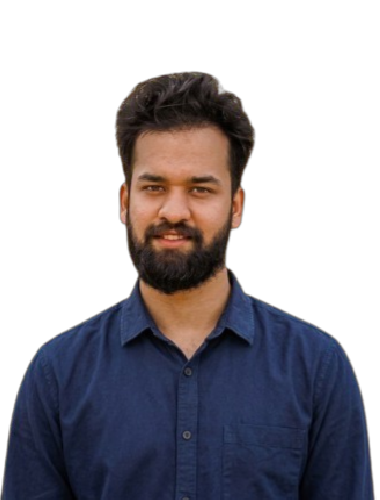
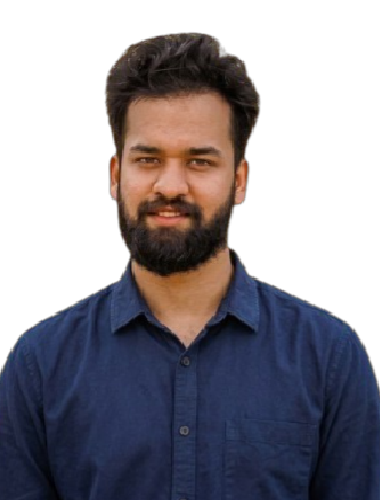
images update

diff --git a/src/app/layout.js b/src/app/layout.js
@@ -1,15 +1,16 @@
 import './globals.css';
+import LetsTalkFloating from '@/components/home/LetsTalkFloating';
 
 export const metadata = {
   title: 'Bughex — Software Development Agency',
-  description:'Bughex is a software development agency delivering scalable web, mobile, and AI solutions. We specialize in Flutter, React Native, React.js, Next.js, Laravel, Node.js, Android/iOS, and custom software development for startups and enterprises.',
+  description: 'Bughex is a software development agency delivering scalable web, mobile, and AI solutions. We specialize in Flutter, React Native, React.js, Next.js, Laravel, Node.js, Android/iOS, and custom software development for startups and enterprises.',
   keywords: 'flutter, react native, react js, next js, javascript, laravel, php, android, ios, nodejs, ai, development agency',
   icons: {
     icon: '/favicon.png',
   },
   openGraph: {
     title: 'Bughex — Software Development Agency',
-    description:'Bughex is a software development agency delivering scalable web, mobile, and AI solutions. We specialize in Flutter, React Native, React.js, Next.js, Laravel, Node.js, Android/iOS, and custom software development for startups and enterprises.',
+    description: 'Bughex is a software development agency delivering scalable web, mobile, and AI solutions. We specialize in Flutter, React Native, React.js, Next.js, Laravel, Node.js, Android/iOS, and custom software development for startups and enterprises.',
     type: 'website',
   },
 };
@@ -27,7 +28,10 @@ export default function RootLayout({ children }) {
           rel="stylesheet"
         />
       </head>
-      <body>{children}</body>
+      <body>
+        {children}
+        <LetsTalkFloating />
+      </body>
     </html>
   );
 }

diff --git a/src/components/home/LetsTalkFloating.jsx b/src/components/home/LetsTalkFloating.jsx
@@ -2,6 +2,7 @@
 
 import { motion, AnimatePresence } from "framer-motion";
 import { useState, useEffect, useRef } from "react";
+import { usePathname } from "next/navigation";
 import { Icon } from "@iconify/react";
 import Image from "next/image";
 
@@ -35,16 +36,36 @@ export default function LetsTalkFloating() {
     href: "#contact",
   };
 
+  const pathname = usePathname();
+
   useEffect(() => {
     const handleScroll = () => {
+      // Hide on contact page
+      if (pathname === "/contact") {
+        setIsVisible(false);
+        return;
+      }
+
       const shouldShow = window.scrollY > 300;
+
+      // Hide in footer or contact section
       const footer = document.querySelector("footer");
-      let inFooterArea = false;
+      const contactSection = document.querySelector("#contact");
+
+      let inTargetArea = false;
+
       if (footer) {
         const rect = footer.getBoundingClientRect();
-        if (rect.top < window.innerHeight - 50) inFooterArea = true;
+        if (rect.top < window.innerHeight - 50) inTargetArea = true;
       }
-      setIsVisible(shouldShow && !inFooterArea);
+
+      if (contactSection) {
+        const rect = contactSection.getBoundingClientRect();
+        if (rect.top < window.innerHeight - 50 && rect.bottom > 50)
+          inTargetArea = true;
+      }
+
+      setIsVisible(shouldShow && !inTargetArea);
     };
 
     const handleClickOutside = (event) => {

diff --git a/src/lib/mock.js b/src/lib/mock.js
@@ -16,7 +16,6 @@ export const navLinks = [
   { label: 'SERVICES', href: '/services', hasDropdown: true },
   { label: 'PROJECTS', href: '/projects', hasDropdown: false },
   { label: 'BLOGS', href: '/blogs', hasDropdown: false },
-  { label: 'CONTACT', href: '/contact', hasDropdown: false },
 ];
 
 export const megaMenuData = {
@@ -199,22 +198,22 @@ export const leaders = [
     nameFirst: 'Atif',
     nameLast: 'Raza',
     role: 'Backend Specialist & Head of AI',
-    linkedin: 'https://www.linkedin.com/in/atif-raza-7a6855217'
-    // image: '/team/atif-raza.png',
+    linkedin: 'https://www.linkedin.com/in/atif-raza-7a6855217',
+    image: '/team/atif-raza.png',
   },
   {
     nameFirst: 'Ammar',
     nameLast: 'Yousaf',
     role: 'React Native & Head of Global Marketing',
-    linkedin: 'https://www.linkedin.com/in/ammar-yousaf-react-native-53321a19a'
-    // image: '/team/ammar-yousaf.png',
+    linkedin: 'https://www.linkedin.com/in/ammar-yousaf-react-native-53321a19a',
+    image: '/team/ammar-yousaf.png',
   },
   {
     nameFirst: 'Moeen',
     nameLast: 'U Din',
     role: 'Full-Stack Developer & Head of DevOps',
-    linkedin: 'https://www.linkedin.com/in/moeen-u-din'
-    // image: '/team/moeen-u-din.png',
+    linkedin: 'https://www.linkedin.com/in/moeen-u-din',
+    image: '/team/moeen-u-din.png',
   },
   {
     nameFirst: 'Shamroz',

diff --git a/src/app/page.js b/src/app/page.js
@@ -12,8 +12,6 @@ import ContactSection from '@/components/home/ContactSection';
 import ScrollTextSection from '@/components/home/ScrollTextSection';
 import RecentProjectsSection from '@/components/home/RecentProjectsSection';
 import { Icon } from '@iconify/react';
-import LetsTalkFloating from '@/components/home/LetsTalkFloating';
-
 import { capabilities } from '@/lib/mock';
 
 export default function HomePage() {
@@ -52,7 +50,6 @@ export default function HomePage() {
           <ContactSection />
         </main>
         <Footer />
-        <LetsTalkFloating />
       </motion.div>
     </>
   );

diff --git a/src/app/services/page.js b/src/app/services/page.js
@@ -3,7 +3,6 @@
 import Header from "@/components/Header";
 import Footer from "@/components/Footer";
 import ServicesSection from "@/components/home/ServicesSection";
-import LetsTalkFloating from "@/components/home/LetsTalkFloating";
 import { motion } from "framer-motion";
 
 export default function ServicesPage() {
@@ -20,7 +19,6 @@ export default function ServicesPage() {
                 </motion.div>
             </main>
             <Footer />
-            <LetsTalkFloating />
         </div>
     );
 }
